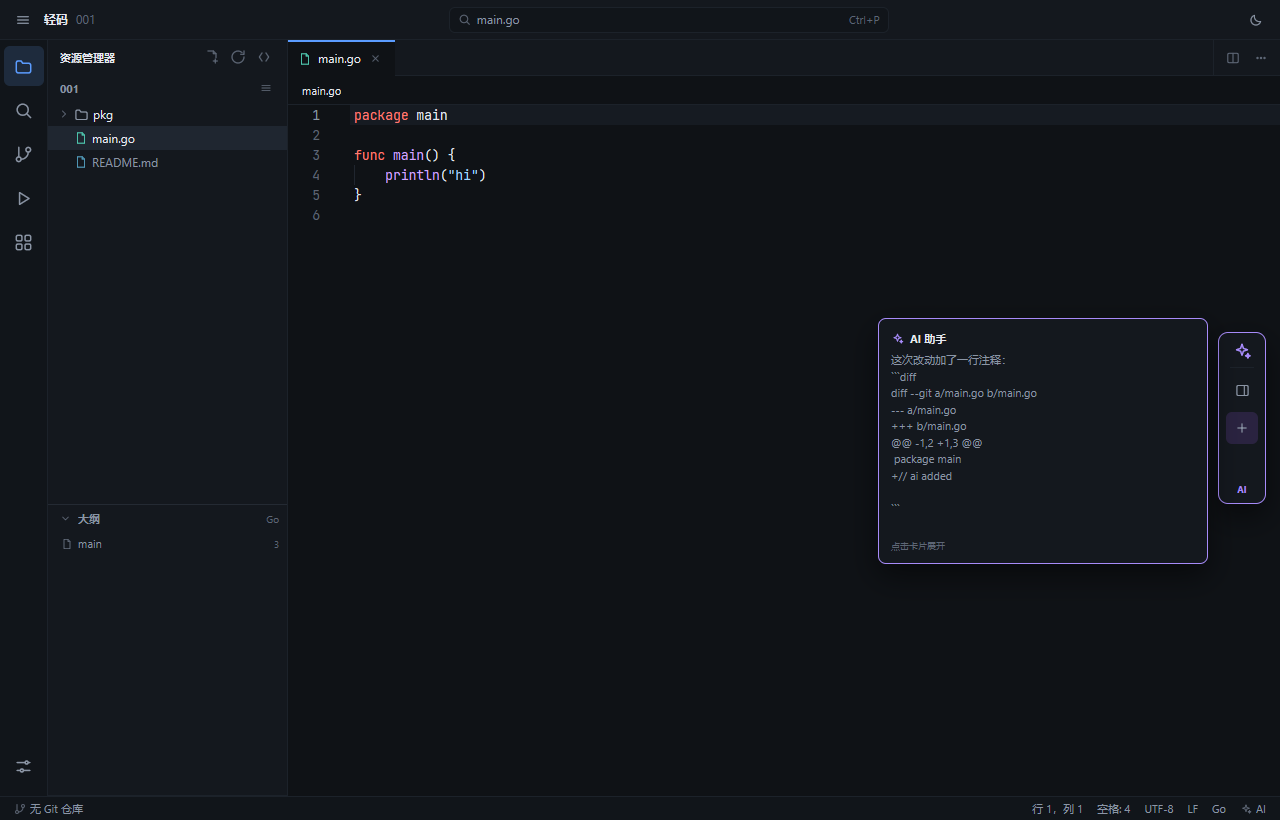
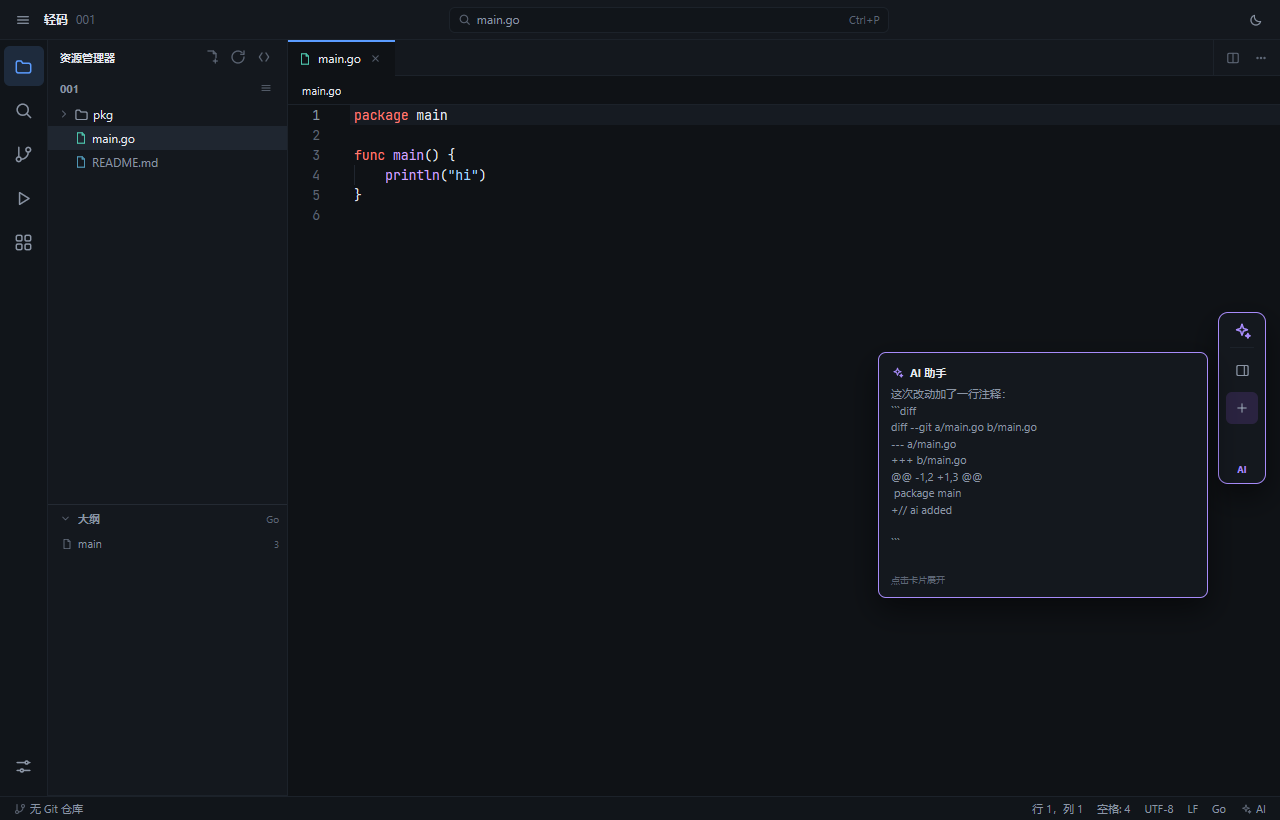
AI：悬浮面板与收起卡片支持拖动，位置持久化
- 380×640 悬浮面板、48×172 收起卡片都可按住拖动，可浮在代码上方；越界自动夹回窗口
- 位置存 settings.json（aiFloatX/Y、aiRailX/Y），悬停预览跟随卡片位置
- 新增 TestAIDragFloatingAndRail（拖动/夹取/重启恢复）；共 91 个测试

diff --git a/lightcode/internal/app/ai.go b/lightcode/internal/app/ai.go
@@ -22,15 +22,19 @@ func (a *App) aiPanel(c *ui.Context) {
 	})
 }
 
-// aiFloat is the assistant floating over the editor, 380×640.
+// aiFloat is the assistant floating over the editor, 380×640, where the
+// user last left it; its head drags it.
 func (a *App) aiFloat(c *ui.Context) {
 	if a.AI.Mode != AIFloat {
 		return
 	}
+	x, y := a.aiPosition(0)
 	ui.Overlay(c, func() {
-		card := ui.Column(c).Absolute().Right(14).Top(float32(theme.TitleBarH)+16).Width(380).Height(640).
+		card := ui.Column(c).Absolute().Left(x).Top(y).Width(380).Height(640).
 			Radius(10).Background(theme.Panel).Border(1, theme.Border).
-			Shadow(0, 16, 40, 0, ui.RGBA(0, 0, 0, 0.55))
+			Shadow(0, 16, 40, 0, ui.RGBA(0, 0, 0, 0.55)).
+			Cursor(ui.CursorGrab)
+		card.HandleInput(a.dragAI(0))
 		card.Children(func() {
 			a.aiHeader(c)
 			a.aiBody(c)
@@ -89,13 +93,11 @@ func (a *App) aiBody(c *ui.Context) {
 
 // aiRailPeek previews the last answer while the rail card is hovered.
 func (a *App) aiRailPeek(c *ui.Context) {
-	_, height := c.Size()
-	top := float32(theme.TitleBarH) + (height-float32(theme.TitleBarH)-float32(theme.StatusBarH))/2 - 100
-	if top < float32(theme.TitleBarH)+8 {
-		top = float32(theme.TitleBarH) + 8
-	}
+	px := a.Prefs.AIRailX - 340
+	py := a.Prefs.AIRailY + 40
+	px, py = a.clampAI(px, py, 330, 200)
 	ui.Overlay(c, func() {
-		card := ui.Column(c).Absolute().Right(float32(theme.AIRailW)+10).Top(top).Width(330).
+		card := ui.Column(c).Absolute().Left(px).Top(py).Width(330).
 			Padding(12).Gap(6).Radius(8).Background(theme.Panel).Border(1, theme.AI).
 			Shadow(0, 12, 30, 0, ui.RGBA(0, 0, 0, 0.5))
 		card.Children(func() {
@@ -322,16 +324,13 @@ func chip(c *ui.Context, ic *ui.SVG, label string) {
 // aiRail is the collapsed assistant: a 48×172 card floating at the right
 // of the window, clear of the layout, so that it leaves no empty column.
 func (a *App) aiRail(c *ui.Context) {
-	_, height := c.Size()
-	top := float32(theme.TitleBarH) + (height-float32(theme.TitleBarH)-float32(theme.StatusBarH))/2 - 86
-	if top < float32(theme.TitleBarH)+8 {
-		top = float32(theme.TitleBarH) + 8
-	}
+	x, y := a.aiPosition(1)
 	ui.Overlay(c, func() {
-		card := ui.Column(c).Absolute().Right(14).Top(top).Width(48).Height(172).
+		card := ui.Column(c).Absolute().Left(x).Top(y).Width(48).Height(172).
 			Radius(10).Background(theme.Panel).Border(1, theme.Border).
 			Shadow(0, 12, 30, 0, ui.RGBA(0, 0, 0, 0.5)).
-			AlignItems(ui.Center).PaddingY(8).Gap(6)
+			AlignItems(ui.Center).PaddingY(8).Gap(6).Cursor(ui.CursorGrab)
+		card.HandleInput(a.dragAI(1))
 		card.Children(func() {
 			ui.Icon(c, icons.Sparkles).FontSize(20).TextColor(theme.AI).Tooltip("AI 助手（已收起）")
 			ui.Box(c).Width(24).Height(1).Background(theme.BorderSoft)
@@ -355,4 +354,128 @@ func (a *App) aiRail(c *ui.Context) {
 			card.Border(1, theme.AI)
 		}
 	})
+}
+
+// aiDragState tracks a pointer dragging the floating assistant or its rail.
+type aiDragState struct {
+	active bool
+	target int
+	lastX  float32
+	lastY  float32
+	movedX float32
+	movedY float32
+}
+
+// aiPosition returns the top-left of the floating panel (target 0) or the
+// rail card (1), defaulting to the right edge and clamped to the window.
+func (a *App) aiPosition(target int) (float32, float32) {
+	w, h := float32(380), float32(640)
+	x, y := a.Prefs.AIFloatX, a.Prefs.AIFloatY
+	if target == 1 {
+		w, h = 48, 172
+		x, y = a.Prefs.AIRailX, a.Prefs.AIRailY
+	}
+	thisW, thisH := a.viewW, a.viewH
+	if thisW <= 0 || thisH <= 0 {
+		thisW, thisH = 1280, 820
+	}
+	if x == 0 && y == 0 {
+		x = thisW - w - 14
+		if target == 0 {
+			y = float32(theme.TitleBarH) + 16
+		} else {
+			y = (thisH - float32(theme.StatusBarH)) / 2
+			y -= h / 2
+		}
+	}
+	x, y = a.clampAI(x, y, w, h)
+	if target == 0 {
+		a.Prefs.AIFloatX, a.Prefs.AIFloatY = x, y
+	} else {
+		a.Prefs.AIRailX, a.Prefs.AIRailY = x, y
+	}
+	return x, y
+}
+
+func (a *App) clampAI(x, y, w, h float32) (float32, float32) {
+	W, H := a.viewW, a.viewH
+	if W <= 0 || H <= 0 {
+		W, H = 1280, 820
+	}
+	minX, minY := float32(8), float32(theme.TitleBarH)+8
+	maxX := W - w - 8
+	maxY := H - float32(theme.StatusBarH) - h - 8
+	if maxX < minX {
+		maxX = minX
+	}
+	if maxY < minY {
+		maxY = minY
+	}
+	if x < minX {
+		x = minX
+	}
+	if x > maxX {
+		x = maxX
+	}
+	if y < minY {
+		y = minY
+	}
+	if y > maxY {
+		y = maxY
+	}
+	return x, y
+}
+
+// dragAI drags the floating panel (target 0) or the rail card (1) by the
+// pointer; buttons inside them take their own presses first.
+func (a *App) dragAI(target int) func(ui.InputEvent) bool {
+	return func(ev ui.InputEvent) bool {
+		st := &a.aiDrag
+		switch ev.Kind {
+		case ui.InputPointerDown:
+			if ev.Button != 0 {
+				return false
+			}
+			st.active = true
+			st.target = target
+			st.lastX, st.lastY = ev.X, ev.Y
+			st.movedX, st.movedY = 0, 0
+			return true
+		case ui.InputPointerMove:
+			if !st.active || st.target != target {
+				return false
+			}
+			dx := ev.X - st.lastX + st.movedX
+			dy := ev.Y - st.lastY + st.movedY
+			ax, ay := a.moveAI(target, dx, dy)
+			st.movedX, st.movedY = ax, ay
+			st.lastX, st.lastY = ev.X, ev.Y
+			return true
+		case ui.InputPointerUp:
+			if !st.active {
+				return false
+			}
+			st.active = false
+			savePrefs(a.Prefs)
+			return true
+		}
+		return false
+	}
+}
+
+// moveAI moves a panel by dx, dy and reports how far it actually moved
+// after the window's edges clamped it.
+func (a *App) moveAI(target int, dx, dy float32) (float32, float32) {
+	w, h := float32(380), float32(640)
+	var x, y *float32
+	if target == 0 {
+		x, y = &a.Prefs.AIFloatX, &a.Prefs.AIFloatY
+	} else {
+		w, h = 48, 172
+		x, y = &a.Prefs.AIRailX, &a.Prefs.AIRailY
+	}
+	ox, oy := *x, *y
+	nx, ny := a.clampAI(ox+dx, oy+dy, w, h)
+	*x, *y = nx, ny
+	return nx - ox, ny - oy
 }

diff --git a/lightcode/internal/app/m5_test.go b/lightcode/internal/app/m5_test.go
@@ -173,3 +173,47 @@ func TestTabContextMenu(t *testing.T) {
 	}
 	tt.CloseMenu()
 }
+
+// TestAIDragFloatingAndRail drags the floating panel and the collapsed
+// card, which can sit over the code.
+func TestAIDragFloatingAndRail(t *testing.T) {
+	a, dir := testWorkspace(t)
+	a.AI.Mode = AIFloat
+	tt := ui.NewTester(a.View, 1280, 820)
+	tt.Frame()
+	x0 := a.Prefs.AIFloatX
+	tt.Press(950, 70)
+	tt.Move(850, 70)
+	tt.Release(850, 70)
+	tt.Frame()
+	if a.Prefs.AIFloatX >= x0 {
+		t.Errorf("the floating panel did not drag: x %.0f -> %.0f", x0, a.Prefs.AIFloatX)
+	}
+
+	a.AI.Mode = AIRail
+	tt.Frame()
+	rx0 := a.Prefs.AIRailX
+	tt.Press(1240, 360)
+	tt.Move(1120, 300)
+	tt.Release(1120, 300)
+	tt.Frame()
+	if a.Prefs.AIRailX >= rx0 {
+		t.Errorf("the rail did not drag: x %.0f -> %.0f", rx0, a.Prefs.AIRailX)
+	}
+	if a.Prefs.AIRailY >= 312 {
+		t.Errorf("the rail did not move up: y %.0f", a.Prefs.AIRailY)
+	}
+	// It stays inside the window: dragging left of the edge clamps.
+	tt.Press(a.Prefs.AIRailX+20, a.Prefs.AIRailY+20)
+	tt.Move(-500, -500)
+	tt.Release(-500, -500)
+	tt.Frame()
+	if a.Prefs.AIRailX < 8 || a.Prefs.AIRailY < 48 {
+		t.Errorf("the rail left the window: %.0f, %.0f", a.Prefs.AIRailX, a.Prefs.AIRailY)
+	}
+	// The position survives a restart.
+	a2 := New(dir, "")
+	if a2.Prefs.AIRailX != a.Prefs.AIRailX || a2.Prefs.AIRailY != a.Prefs.AIRailY {
+		t.Errorf("restored rail = %.0f, %.0f", a2.Prefs.AIRailX, a2.Prefs.AIRailY)
+	}
+}

diff --git a/lightcode/internal/app/app.go b/lightcode/internal/app/app.go
@@ -94,7 +94,11 @@ type App struct {
 	TermPercent float32
 	// SettingsOpen shows the settings page in the active column.
 	SettingsOpen bool
-	// tabMenuAct is a tab context menu's choice, run after the rows are built.
+	// viewW and viewH are the window's content size, for dragging overlays.
+	viewW, viewH float32
+	// aiDrag is a pointer drag of the floating assistant.
+	aiDrag aiDragState
+	// tabMenuAct is a tab context menu''s choice, run after the rows are built.
 	tabMenuAct *tabAction
 	// Prefs are the app's preferences, from settings.json.
 	Prefs preferences

diff --git a/lightcode/internal/app/prefs.go b/lightcode/internal/app/prefs.go
@@ -16,6 +16,10 @@ type preferences struct {
 	Theme           string `json:"theme,omitempty"`
 	AIEnabled       bool   `json:"aiEnabled,omitempty"`
 	TerminalEnabled bool   `json:"terminalEnabled,omitempty"`
+	// Positions of the floating assistant and its collapsed card, DIPs
+	// from the window's top left; 0 for the defaults.
+	AIFloatX, AIFloatY float32
+	AIRailX, AIRailY   float32
 }
 
 // defaultPreferences is what a first run uses.

diff --git a/lightcode/internal/app/m4_screenshot_test.go b/lightcode/internal/app/m4_screenshot_test.go
@@ -38,4 +38,11 @@ func TestM4Screenshots(t *testing.T) {
 	tt.Move(1242, 418)
 	tt.Frame()
 	saveShot(t, tt, "lightcode-ui-ai-peek.png")
+
+	// Drag the rail card over the code.
+	tt.Press(a.Prefs.AIRailX+24, a.Prefs.AIRailY+60)
+	tt.Move(720, 260)
+	tt.Release(720, 260)
+	tt.Frame()
+	saveShot(t, tt, "lightcode-ui-ai-drag.png")
 }

diff --git a/lightcode/internal/app/view.go b/lightcode/internal/app/view.go
@@ -9,6 +9,7 @@ import (
 
 // View builds the window.
 func (a *App) View(c *ui.Context) {
+	a.viewW, a.viewH = c.Size()
 	c.SetTheme(theme.Window())
 	if a.Zoom != 0 && a.Zoom != 1 {
 		c.SetZoom(a.Zoom)

diff --git a/lightcode/README.md b/lightcode/README.md
@@ -38,7 +38,7 @@ go run ./cmd/lightcode <folder> [file]
 - 编辑：`ui/editor` 的语法高亮、多光标、折叠、查找替换、跳转到行、Git 改动条（未接 Git 时为空白）。
 - 快速打开 `Ctrl+P` 与命令面板 `Ctrl+Shift+P`（模糊匹配、↑↓ 选择、Enter 执行）。
 - AI 助手：兼容 OpenAI 的流式客户端（SSE、系统代理、可取消/重试），Key 存系统凭据库（或 `OPENAI_API_KEY`），Base URL/模型在设置弹窗里改；停靠 380 / 悬浮 380×640 / 收起为右侧浮动的 48×172 卡片三态（不占布局、没有空列，悬停可预览上一轮回答），模式随会话恢复。回答用 `ui/markdown` 流式渲染，并逐帧揭示（打字机式，即使服务端一次性返回也分段显示），其中 git diff 会被解析成 diff 卡片，点「应用」才写入当前缓冲区（保持未保存），「忽略」可丢弃，也可以展开看差异。上下文是当前文件或选区（上限 8000 字符）。
-- 视图：`Ctrl+B` 侧栏；`Ctrl+Shift+E/F/G/X` 切换侧栏视图；`Ctrl+=` / `Ctrl+-` / `Ctrl+0` 缩放；`Ctrl+\` 拆分/关闭分屏（`ui.SplitPercent`，拖动分隔条；两列共享同一 Document 的 undo）；AI 停靠 380 宽，收起后是右侧浮动的 48×172 卡片（不占布局、不留白条），点卡片展开。
+- 视图：`Ctrl+B` 侧栏；`Ctrl+Shift+E/F/G/X` 切换侧栏视图；`Ctrl+=` / `Ctrl+-` / `Ctrl+0` 缩放；`Ctrl+\` 拆分/关闭分屏（`ui.SplitPercent`，拖动分隔条；两列共享同一 Document 的 undo）；AI 停靠 380 宽，收起后是右侧浮动的 48×172 卡片（不占布局、不留白条），点卡片展开；**悬浮面板与收起卡片都能拖动**（位置写入 `settings.json`），允许浮在代码上方。
 - 命令面板可滚动（`ui.Scroll`，↑↓ 选择会自动滚到可见处），`打开文件夹…` 等靠后的命令都能找到。
 - 主题：深色 / 浅色两套板（标题栏右上角的☀/☾按钮、设置页「外观」、或 `Ctrl+Shift+T` 切换），编辑器和 diff/AI 卡片一起换色；选择存在 `settings.json` 的 `theme` 字段，窗口菜单与对话框通过主循环跟随系统外观设置。
 - 状态栏：分支（读 `.git/HEAD`）、消息、行列、缩进、编码、行尾、语言、AI。
@@ -89,6 +89,7 @@ go build ./... && go vet ./... && go test ./...
 ## 里程碑
 
 M0 空壳（已完成）→ M1 会话恢复/外部改动/预览标签/分屏/缩放/编码/IME（已完成）→ M2 工作区（索引、搜索、大纲、文件操作、watcher，已完成）→ M3 Git（status/SCM/diff/逐 hunk 暂存/提交/历史，核心完成；冲突与 remote 待做）→ M4 AI 面板（流式客户端、三态、diff 卡片、确认应用，已完成）→ M5 终端/设置/能力面板（已完成；i18n 未做）→ M6 打磨发布。
+
 
 
 

diff --git a/docs/dev-plan.md b/docs/dev-plan.md
@@ -298,3 +298,4 @@ token（深色）：`--bg #0f1216`、`--panel #14181e`、`--ac #5b9cff`、`--ai 
 
 
 
+
